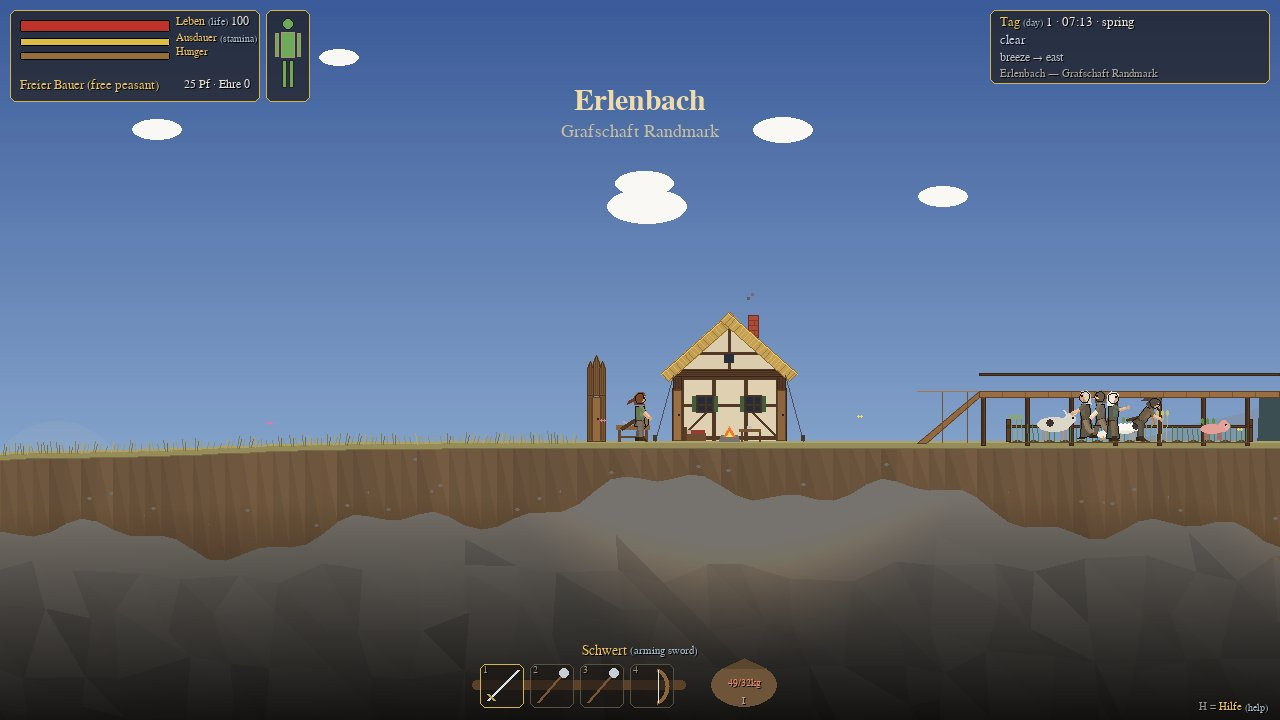
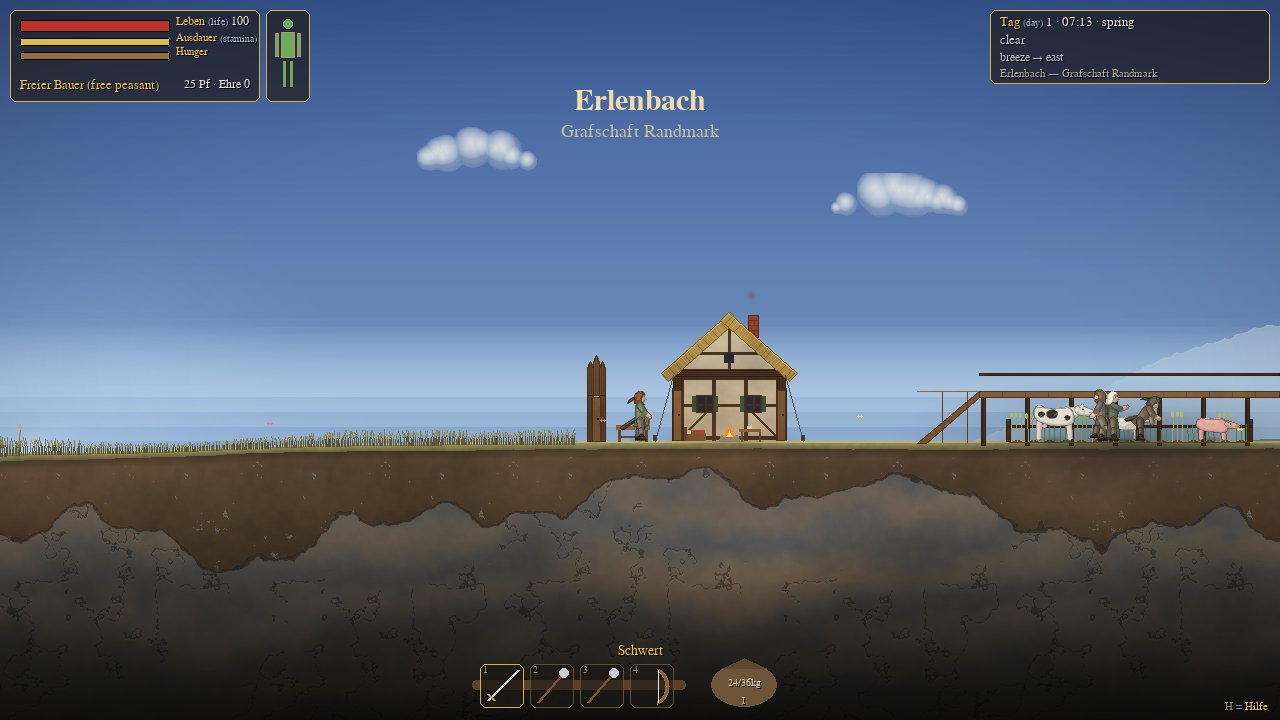
Docs: the painted look, fresh screenshots
Claude-Session: https://claude.ai/code/session_011Uq9NBjsBwGjV8XZYmfuQ9

diff --git a/README.md b/README.md
@@ -12,6 +12,10 @@ The world is made of **polygons with real rigid-body physics** (pymunk): smooth 
 buildings assembled from timber, plaster, brick and stone pieces that fall when they lose their support, trees
 that topple on their stumps, and wood you **shape by hand** into doors, stakes, ladders and wheels.
 
+Everything is **painted** like a storybook: leafy tree crowns built from hundreds of leaf dabs, textured earth and
+rock, soft-shaded people and animals, layered hazy distance, cotton clouds lit by the sun (see
+[The painted look](#the-painted-look-round-5)).
+
 ![village](docs/screenshots/46_erlenbach.jpg)
 
 | | |
@@ -26,7 +30,7 @@ that topple on their stumps, and wood you **shape by hand** into doors, stakes, 
 | ![digging](docs/screenshots/47_digging.jpg) | ![riding](docs/screenshots/49_riding.jpg) |
 | ![bow arc](docs/screenshots/48_bow_arc.jpg) | ![bow keys](docs/screenshots/50_bow_keys.jpg) |
 
-![animals](docs/screenshots/44_animals.jpg)
+![animals](docs/screenshots/57_animals.jpg)
 
 The block/tile-based version of round 2 is kept in [`legacy/tile_v2/`](legacy/tile_v2) for comparison.
 
@@ -71,11 +75,12 @@ Python 3.10+. Classic `pygame` 2.x also works. F11 toggles fullscreen, F3 shows 
 
 ## The polygon world (round 3)
 
-- **No blocks.** The ground is a smooth surface over a crust of rock, drawn in faceted low-poly bands (turf,
-  soil, rock strata). Caves are winding passages cut out of it with shapely, with ore veins in their walls (iron,
-  coal, silver in Hochburg, salt, gold deep down, glowing *Glutstein* in Glutmark) and pale mushrooms. Water is
-  a body with a level, waves and buoyancy; the Fire Sea and the Abyss are still at the ends of the world, and the
-  brink still crumbles — now in rigid chunks that tumble into the void.
+- **No blocks.** The ground is a smooth surface over a crust of rock, painted per pixel (a turf lip, crumbly
+  soil, rock strata; see [The painted look](#the-painted-look-round-5)). Caves are winding passages cut out
+  of it with shapely, with ore veins in their walls (iron, coal, silver in Hochburg, salt, gold deep down,
+  glowing *Glutstein* in Glutmark) and pale mushrooms. Water is a body with a level, waves and buoyancy; the
+  Fire Sea and the Abyss are still at the ends of the world, and the brink still crumbles — now in rigid chunks
+  that tumble into the void.
 - **Real physics.** One pymunk space: people and animals are capsules with a hand-animated skeleton on top;
   logs, planks, debris, stones and everything you make are rigid bodies that roll, stack, float and burn. Doors
   are pieces that turn into sensors when they open; upper floors are one-way platforms you jump up through.
@@ -122,6 +127,55 @@ Python 3.10+. Classic `pygame` 2.x also works. F11 toggles fullscreen, F3 shows 
   blanket and bridle.
 - **Ragdolls with joints.** The fallen become chains of rigid bones pinned at the joints with rotation limits;
   they drape over walls and logs and are frozen into still poses after a while to keep big battles cheap.
+
+## The painted look (round 5)
+
+The low-poly facets are gone; the world is painted like a picture book, with the light always coming from the
+upper left.
+
+| | |
+|---|---|
+| ![autumn forest](docs/screenshots/51_autumn.jpg) | ![winter](docs/screenshots/52_winter.jpg) |
+| ![evening](docs/screenshots/53_evening.jpg) | ![field battle](docs/screenshots/54_battle.jpg) |
+
+![trees](docs/screenshots/55_trees.jpg)
+
+![people](docs/screenshots/56_people.jpg)
+
+- **Trees.** Every tree grows a skeleton of branching limbs from its seed, with roots flaring into the soil and
+  bark fissures (or the black marks on a birch). Its crown is a pile of leafy clumps, each painted like a ball
+  lit from the upper left: a dark mass, softened like wet paint, a mid-tone cap and crisp sunlit leaves on top,
+  with gaps where the light falls through to the branches. Oaks spread wide, beeches and limes are round, birches
+  airy, willows hang in curtains; spruces droop in tiers of needles, Scots pines carry flat clouds of needles
+  on a tall foxy-red trunk. Autumn turns them gold and rust, winter leaves bare twigs dusted with snow. Each
+  tree is cached in three layers (back of the crown, wood, front of the crown), which sway by different amounts
+  so the crown rustles; a felled tree's painted crown rides down with the trunk.
+- **Plants.** Bushes are small painted crowns with berries in summer; ferns unfurl leaflet by leaflet;
+  flowers have petals, heather is a haze of purple; reeds carry cattails; grass grows in tufts of curved blades,
+  dark at the root and sunlit at the tip, with patches of tall seeding grass in the meadows.
+- **People.** Figures are painted at twice their size and shrunk smoothly, so edges are clean and small
+  details survive: a rounded head with an eye that catches the light, brow, nose, ear and a blush on the cheek;
+  hair and beards in strands; cloth that folds below the belt, a neckline, a buckle and a purse; mail in rows of
+  rings, plate that gleams; painted helmets and shields. Limbs are soft capsules with a cool shadow on one side
+  and a warm highlight on the other, outlined in a darker shade of their own colour, never black.
+- **Animals.** Smooth bodies drawn through their skeleton points, a shaded belly, muscles that catch the light
+  over shoulder and haunch, fur strokes along the lie of the coat; manes and tails in flowing locks that lift
+  in the gallop; eyes, nostrils and mouths; a blaze on some horses, feathering over the hooves; saddle and
+  bridle in leather.
+- **Ground.** Terrain tiles are painted per pixel from tileable noise: a bright turf lip darkening into the
+  roots, humus under the turf, crumbly soil with pebbles lit on top, a dark seam where soil meets rock, then rock
+  in gently tilted strata with sparse cracks, getting darker the deeper you go. Cave hollows have a shadowed back
+  wall, lit floors and dark ceilings.
+- **Sky and distance.** A three-tone sky; a sun with a wide warm haze; clouds painted from soft puffs with
+  shaded undersides and tops lit by the sun (golden in the evening, slate in a storm); far blue mountains with
+  snow caps, rolling hills and forested ridges, each layer paler and bluer the farther it is, mist pooling at
+  their feet, and a near line of tree crowns.
+- **Light.** Soft contact shadows under people, animals, trees and houses; warm glows around fires, torches and
+  lit windows at night; smoke rises in soft puffs; water mirrors the sky near its surface and laps the shore
+  in foam; a gentle vignette.
+- **Speed.** Everything expensive is cached and painted ahead: terrain tiles and trees that are about to scroll
+  into view are prepared within a few milliseconds per frame. Riding through new country averages about 17 ms
+  per frame on the test machine (about 58 fps).
 
 ## What's in the world
 
@@ -203,7 +257,7 @@ pierce and blunt, and slows you down.
 
 ### Bodies, wounds and armour
 
-Characters are **modular low-poly skeletons**: tapered, two-tone limbs on bones, driven by layered poses
+Characters are **modular skeletons** with painted, softly shaded limbs on bones, driven by layered poses
 (legs move, arms act, and the two blend smoothly). When someone dies, the same skeleton becomes a **verlet
 ragdoll** of jointed rigid bones that tumbles down slopes and settles, and soldiers falling out of formation ranks do
 the same.
@@ -328,10 +382,11 @@ warlord/
   core/app.py               window, main loop, scenes, save/load (pickle + zlib)
   poly/                     world (terrain lines, caves, water, pymunk space, streaming) · gen (geography,
                             settlements, flora) · prefab (buildings from pieces, support graph, gatehouses)
-                            materials · objects (rigid bodies) · flora (low-poly trees) · render
+                            materials · objects (rigid bodies) · flora (painted trees) · render
   world/                    noise · weather
-  gfx/                      renderer (sky, parallax, camera) · rig (low-poly humanoid skeleton) · quadruped
-                            (IK legs, gaits) · sprites · fx · ambient (birds, smoke…)
+  gfx/                      paint (noise, dabs, soft limbs, glows, supersampling) · renderer (sky, clouds,
+                            parallax, camera) · rig (humanoid skeleton) · quadruped (IK legs, gaits) · sprites ·
+                            fx · ambient (birds, smoke…)
   entities/                 body (pymunk capsule) · humanoid · ragdoll (jointed rigid bones) · player · npc
                             (brains) · animals · boat · projectile
   combat/                   weapons · combat · injury · units · formation (Haufen) · siege

diff --git a/docs/COMPARISON.md b/docs/COMPARISON.md
@@ -106,7 +106,7 @@ side.
 | Ground | 16 px tiles with rounded corners | a smooth surface line over a rock crust; caves cut out as polygons |
 | Physics | AABB against a tile grid, auto step-up | pymunk rigid bodies: capsules for people and animals, polygons for everything else |
 | Buildings | tiles, a span rule for collapse | pieces (posts, panels, ashlar blocks, roof slabs, doors) in a support graph; unsupported pieces fall as rigid bodies |
-| Trees | trunk and leaf tiles, removed at once | faceted low-poly trees that sway; the trunk topples on a hinge at the stump and lands as a log |
+| Trees | trunk and leaf tiles, removed at once | painted trees (branching limbs, leaf-dab crowns, bark) that sway and rustle; the trunk topples on a hinge at the stump and lands as a log |
 | Interaction | mine and place any tile | fell, buck, carry, break, place, go underground |
 | Crafting | recipe list | shaping: axe strokes along guide lines in the field, or saw/chisel/drill/rasp at a workbench, matched against 16 forms with a quality score |
 | Inventory | 40 slots + hotbar | a Rucksack limited by weight, a 4-slot belt, bulky things carried in your arms |
